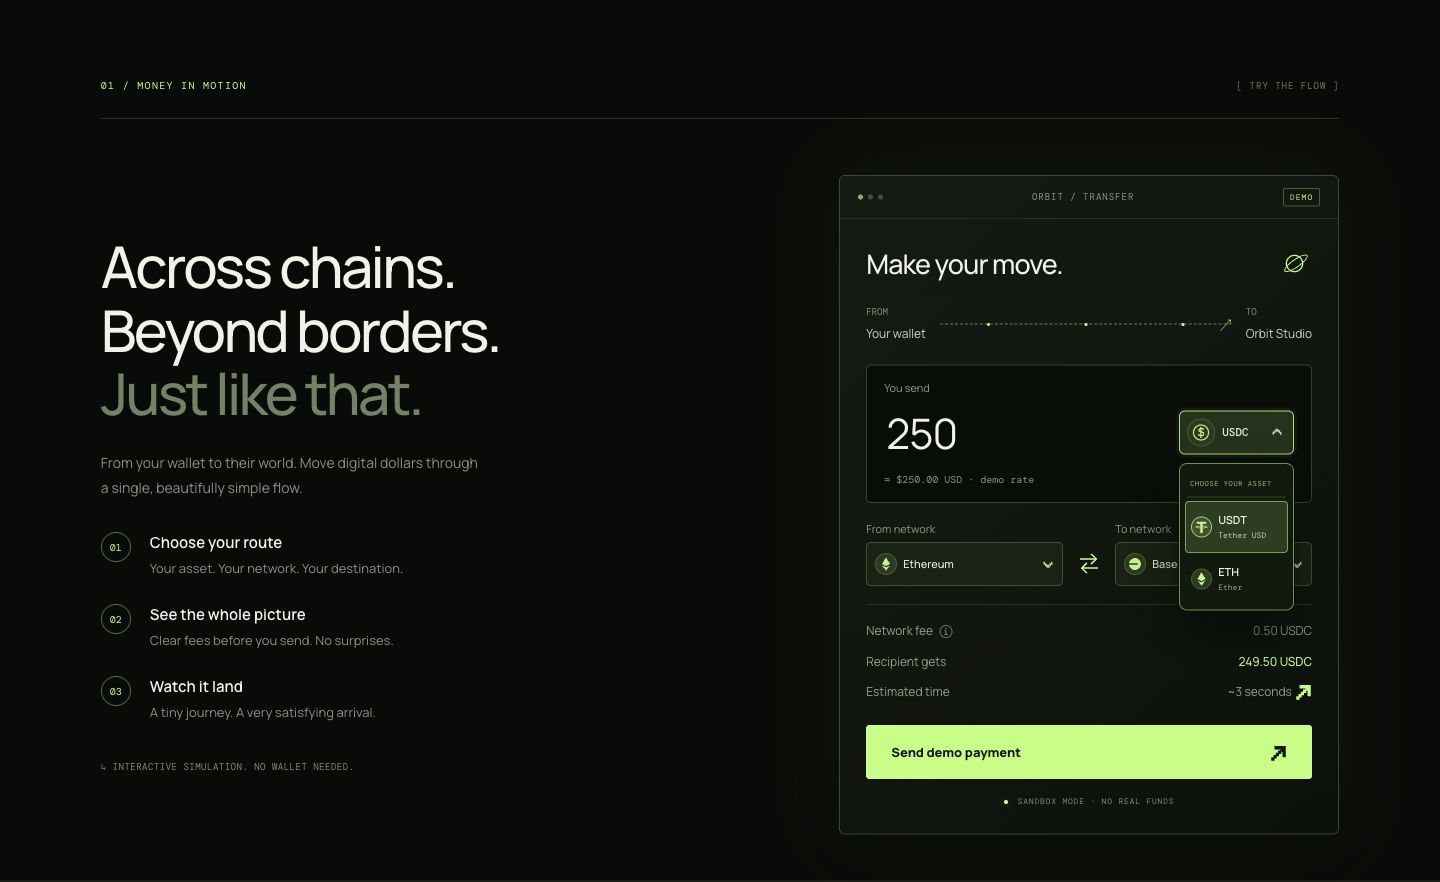
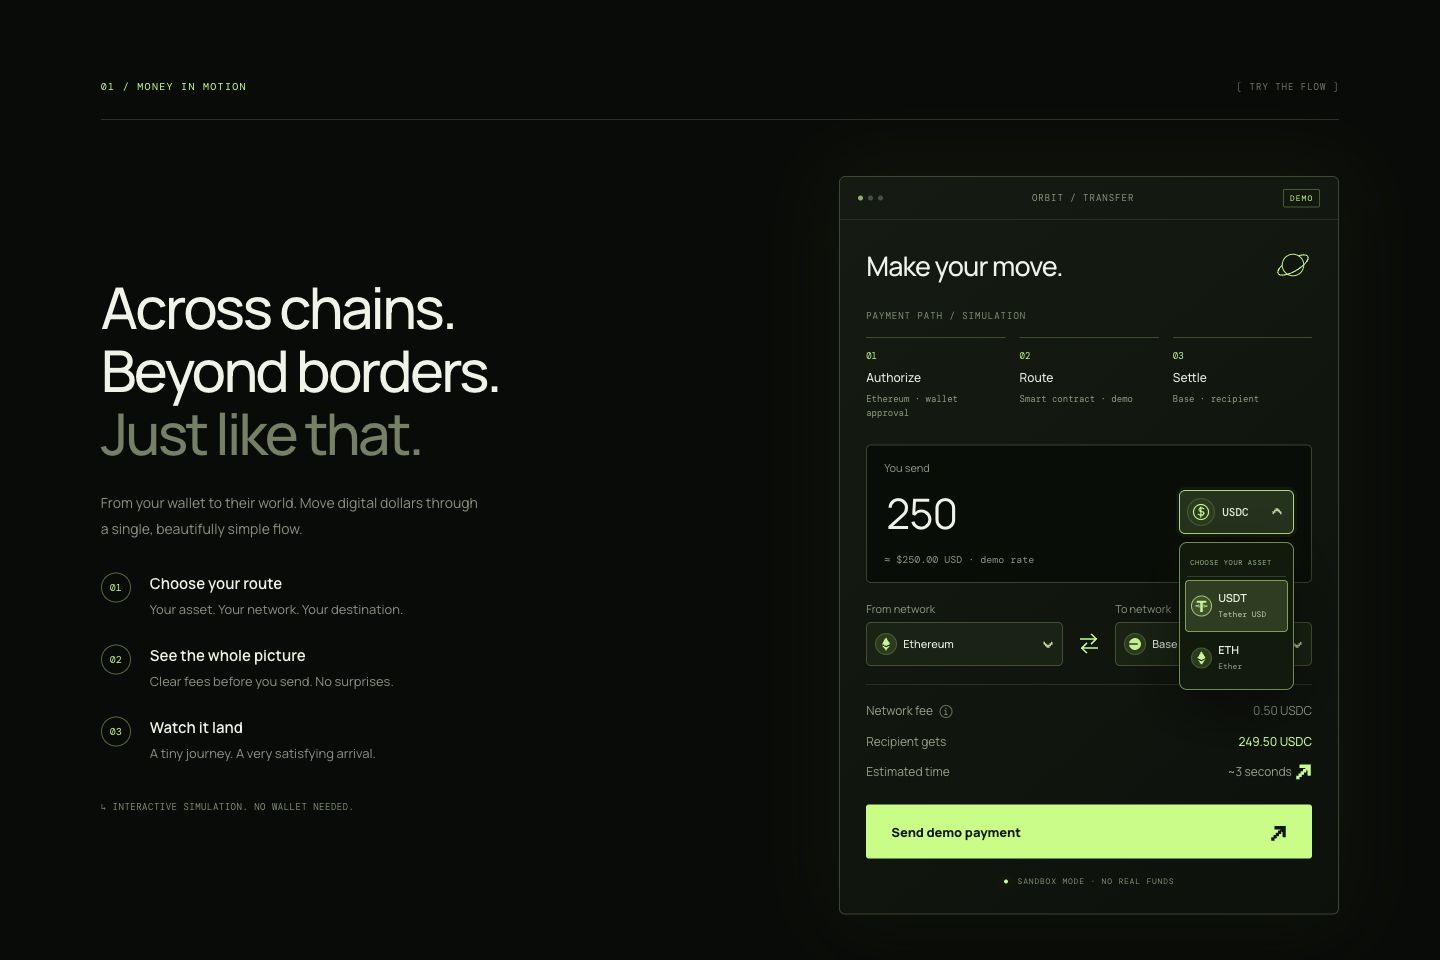
Clarify payment routes and refine orbital artwork and chronological trail fade

diff --git a/dist/index.html b/dist/index.html
@@ -23,7 +23,7 @@
 <section id="product" class="section payment-section">
   <div class="section-heading"><span class="eyebrow">01 / MONEY IN MOTION</span><span class="section-code mono">[ TRY THE FLOW ]</span></div>
   <div class="payment-layout"><div class="payment-copy reveal"><h2>Across chains.<br>Beyond borders.<br><span class="muted-heading">Just like that.</span></h2><p>From your wallet to their world. Move digital dollars through a single, beautifully simple flow.</p><div class="feature-line"><span>01</span><div><h3>Choose your route</h3><p>Your asset. Your network. Your destination.</p></div></div><div class="feature-line"><span>02</span><div><h3>See the whole picture</h3><p>Clear fees before you send. No surprises.</p></div></div><div class="feature-line"><span>03</span><div><h3>Watch it land</h3><p>A tiny journey. A very satisfying arrival.</p></div></div><span class="demo-caption mono">↳ INTERACTIVE SIMULATION. NO WALLET NEEDED.</span></div>
-  <div class="payment-terminal reveal"><div class="terminal-top"><span><i></i><i></i><i></i></span><span>ORBIT / TRANSFER</span><span class="demo-badge">DEMO</span></div><form id="payment-form" novalidate><div class="payment-title"><h3>Make your move.</h3><span class="orbit-mark small-mark"></span></div><div class="transfer-route"><span>FROM <b>Your wallet</b></span><span class="route-line"><i></i><i></i><i></i><b>↗</b></span><span>TO <b>Orbit Studio</b></span></div><div class="amount-box"><label for="amount">You send</label><div class="amount-input"><input id="amount" name="amount" type="number" min="0.01" max="1000000" step="0.01" value="250" inputmode="decimal" aria-describedby="payment-error"><label class="sr-only" for="asset">Asset</label><select id="asset" name="asset"><option>USDC</option><option>USDT</option><option>ETH</option></select></div><span id="amount-usd" class="mono muted">≈ $250.00 USD · demo rate</span></div><div class="network-fields"><div><label for="from-network">From network</label><select id="from-network"><option>Ethereum</option><option>Base</option><option>Solana</option><option>Polygon</option></select></div><button class="network-swap" id="swap-networks" type="button" aria-label="Swap networks" title="Swap networks"><svg viewBox="0 0 24 24" aria-hidden="true" focusable="false"><path d="M3 7h17m-5-5 5 5-5 5M21 17H4m5-5-5 5 5 5"/></svg></button><div><label for="to-network">To network</label><select id="to-network"><option>Base</option><option>Ethereum</option><option>Solana</option><option>Polygon</option></select></div></div><div class="payment-summary"><div><span>Network fee <span class="info-dot" title="Illustrative fee: 0.1% plus a network-specific demo fee">i</span></span><span id="payment-fee">0.50 USDC</span></div><div><span>Recipient gets</span><strong id="payment-receives">249.50 USDC</strong></div><div><span>Estimated time</span><span>~3 seconds <span class="lime">↗</span></span></div></div><p id="payment-error" class="form-error" role="alert"></p><button id="send-payment" class="button full" type="submit">Send demo payment <span>↗</span></button><div id="payment-status" class="payment-status mono" role="status" aria-live="polite"><span class="status-dot"></span> SANDBOX MODE · NO REAL FUNDS</div></form><div id="receipt" class="receipt" hidden></div></div></div>
+  <div class="payment-terminal reveal"><div class="terminal-top"><span><i></i><i></i><i></i></span><span>ORBIT / TRANSFER</span><span class="demo-badge">DEMO</span></div><form id="payment-form" novalidate><div class="payment-title"><h3>Make your move.</h3><svg class="payment-planet" viewBox="0 0 60 60" aria-hidden="true"><g transform="rotate(-30 30 30)"><ellipse cx="30" cy="30" rx="27" ry="10" fill="none" stroke="currentColor" stroke-width="1.8"/><circle cx="30" cy="30" r="17" fill="#10150f" stroke="currentColor" stroke-width="1.5"/><path d="M3 30a27 10 0 0 0 54 0" fill="none" stroke="currentColor" stroke-width="1.8"/></g></svg></div><div class="transfer-route" aria-label="Demo payment process"><span class="route-caption mono">PAYMENT PATH / SIMULATION</span><ol class="route-steps"><li><span class="route-index">01</span><strong>Authorize</strong><small data-route-from>Ethereum · wallet approval</small></li><li><span class="route-index">02</span><strong>Route</strong><small>Smart contract · demo</small></li><li><span class="route-index">03</span><strong>Settle</strong><small data-route-to>Base · recipient</small></li></ol></div><div class="amount-box"><label for="amount">You send</label><div class="amount-input"><input id="amount" name="amount" type="number" min="0.01" max="1000000" step="0.01" value="250" inputmode="decimal" aria-describedby="payment-error"><label class="sr-only" for="asset">Asset</label><select id="asset" name="asset"><option>USDC</option><option>USDT</option><option>ETH</option></select></div><span id="amount-usd" class="mono muted">≈ $250.00 USD · demo rate</span></div><div class="network-fields"><div><label for="from-network">From network</label><select id="from-network"><option>Ethereum</option><option>Base</option><option>Solana</option><option>Polygon</option></select></div><button class="network-swap" id="swap-networks" type="button" aria-label="Swap networks" title="Swap networks"><svg viewBox="0 0 24 24" aria-hidden="true" focusable="false"><path d="M3 7h17m-5-5 5 5-5 5M21 17H4m5-5-5 5 5 5"/></svg></button><div><label for="to-network">To network</label><select id="to-network"><option>Base</option><option>Ethereum</option><option>Solana</option><option>Polygon</option></select></div></div><div class="payment-summary"><div><span>Network fee <span class="info-dot" title="Illustrative fee: 0.1% plus a network-specific demo fee">i</span></span><span id="payment-fee">0.50 USDC</span></div><div><span>Recipient gets</span><strong id="payment-receives">249.50 USDC</strong></div><div><span>Estimated time</span><span>~3 seconds <span class="lime">↗</span></span></div></div><p id="payment-error" class="form-error" role="alert"></p><button id="send-payment" class="button full" type="submit">Send demo payment <span>↗</span></button><div id="payment-status" class="payment-status mono" role="status" aria-live="polite"><span class="status-dot"></span> SANDBOX MODE · NO REAL FUNDS</div></form><div id="receipt" class="receipt" hidden></div></div></div>
 </section>
 <section id="ecosystem" class="section ecosystem-section"><div class="section-heading"><span class="eyebrow">02 / YOUR MONEY, CONNECTED</span><span class="section-code mono">[ HOLD · PAY · STAKE ]</span></div><div class="ecosystem-heading reveal"><h2>Three essentials.<br><span class="muted-heading">One personal orbit.</span></h2><p>A home for your crypto.<br>A way to move it. A way to put it to work.</p></div><div id="ecosystem-root"></div></section>
 <section id="earn" class="section earn-section"><div class="section-heading"><span class="eyebrow">03 / MAKE HOLDING COUNT</span><span class="section-code mono">[ EXPLORE STAKING ]</span></div><div id="earn-root"></div></section>

diff --git a/dist/main.js b/dist/main.js
@@ -6,7 +6,7 @@ import { initNetworkTicker } from './networks.js';
 import { initFinalEmblem } from './final-emblem.js';
 import { initHoverEffects } from './hover-effects.js';
 import { initPlanet } from './planet.js';
-import { calculatePayment, RATES } from './payment.js';
+import { calculatePayment, RATES, reconcileNetworks } from './payment.js';
 
 const $ = (s) => document.querySelector(s);
 const reducedMotion = window.matchMedia('(prefers-reduced-motion: reduce)').matches;
@@ -29,6 +29,21 @@ const form = $('#payment-form');
 const fields = ['#amount','#asset','#from-network','#to-network'].map($);
 const money = value => new Intl.NumberFormat('en-US',{style:'currency',currency:'USD',maximumFractionDigits:2}).format(value);
 let currentPayment;
+let routeState = { from: fields[2].value, to: fields[3].value };
+let syncingRoute = false;
+function syncRoute(changed) {
+  if (syncingRoute) return;
+  syncingRoute = true;
+  const next = reconcileNetworks(routeState, {from: fields[2].value, to: fields[3].value}, changed);
+  for (const [index, key] of [[2, 'from'], [3, 'to']]) {
+    if (fields[index].value !== next[key]) {
+      fields[index].value = next[key];
+      fields[index].dispatchEvent(new Event('change', {bubbles:true}));
+    }
+  }
+  routeState = next;
+  syncingRoute = false;
+}
 function updatePayment() {
   const [amount,asset,from,to] = fields.map(f=>f.value);
   currentPayment = calculatePayment(amount,asset,from,to);
@@ -36,9 +51,19 @@ function updatePayment() {
   $('#payment-error').textContent = currentPayment.error || '';
   $('#payment-fee').textContent = currentPayment.error ? '—' : `${currentPayment.fee.toFixed(currentPayment.precision)} ${asset}`;
   $('#payment-receives').textContent = currentPayment.error ? '—' : `${currentPayment.receives.toFixed(currentPayment.precision)} ${asset}`;
+  document.querySelector('[data-route-from]').textContent = `${from} · wallet approval`;
+  document.querySelector('[data-route-to]').textContent = `${to} · recipient`;
   return !currentPayment.error;
 }
-fields.forEach(f=>f.addEventListener('input',updatePayment)); updatePayment();
+fields.forEach((field, index) => {
+  const update = () => {
+    if (index >= 2) syncRoute(index === 2 ? 'from' : 'to');
+    updatePayment();
+  };
+  field.addEventListener('input', update);
+  if (index >= 2) field.addEventListener('change', update);
+});
+updatePayment();
 let sending = false;
 const swapNetworks = $('#swap-networks');
 swapNetworks.addEventListener('click', () => {
@@ -59,7 +84,7 @@ form.addEventListener('submit',async event => {
   const button=$('#send-payment'); button.disabled=true; fields.forEach(f=>f.disabled=true);
   const phases=['Finding your orbit…','Routing through the network…','Confirming arrival…'];
   try {
-    for(const phase of phases) { button.textContent=phase; $('#payment-status').textContent=phase.toUpperCase(); $('.payment-terminal').classList.add('processing'); await new Promise(resolve=>setTimeout(resolve,reducedMotion?250:850)); }
+    for(const [index, phase] of phases.entries()) { $('.transfer-route').dataset.phase = String(index); button.textContent=phase; $('#payment-status').textContent=phase.toUpperCase(); $('.payment-terminal').classList.add('processing'); await new Promise(resolve=>setTimeout(resolve,reducedMotion?250:850)); }
     const receiptId = `ORB-DEMO-${crypto.randomUUID().slice(0,8).toUpperCase()}`;
     const stamp = new Date().toISOString();
     const receiptText = `ORBIT PAY — DEMO RECEIPT\n${receiptId}\nTime: ${stamp}\nFrom: ${payment.from}\nTo: ${payment.to}\nSent: ${payment.amount} ${payment.asset}\nFee: ${payment.fee.toFixed(payment.precision)} ${payment.asset}\nReceived: ${payment.receives.toFixed(payment.precision)} ${payment.asset}\nSimulated payment. No real funds moved.`;
@@ -68,7 +93,7 @@ form.addEventListener('submit',async event => {
     form.hidden=true;receipt.hidden=false;receipt.setAttribute('tabindex','-1');receipt.focus({preventScroll:true});
     $('#another-payment').addEventListener('click',()=>{receipt.hidden=true;form.hidden=false;$('#amount').focus({preventScroll:true});});
     $('#download-receipt').addEventListener('click',()=>{const url=URL.createObjectURL(new Blob([receiptText],{type:'text/plain'}));const a=document.createElement('a');a.href=url;a.download=`${receiptId}.txt`;a.click();setTimeout(()=>URL.revokeObjectURL(url),1000);toast('Demo receipt saved.');});
-  } finally {sending=false;swapNetworks.disabled=false;button.disabled=false;fields.forEach(f=>f.disabled=false);button.innerHTML='Send demo payment <span>↗</span>';$('#payment-status').innerHTML='<span class="status-dot"></span> SANDBOX MODE · NO REAL FUNDS';$('.payment-terminal').classList.remove('processing');}
+  } finally { $('.transfer-route').removeAttribute('data-phase'); sending=false;swapNetworks.disabled=false;button.disabled=false;fields.forEach(f=>f.disabled=false);button.innerHTML='Send demo payment <span>↗</span>';$('#payment-status').innerHTML='<span class="status-dot"></span> SANDBOX MODE · NO REAL FUNDS';$('.payment-terminal').classList.remove('processing');}
 });
 
 initEcosystem($('#ecosystem-root'));

diff --git a/dist/refinements.css b/dist/refinements.css
@@ -25,3 +25,18 @@
 @media(max-width:760px){.hero-copy>p{font-size:13px}.hero-actions .text-link{font-size:11px}.hero-note{font-size:7px}.hero-bottom,.hero-bottom a{font-size:7px}.hero-bottom>span .muted{display:none}.section-heading .eyebrow{font-size:8px;letter-spacing:.7px}.section-code{font-size:7px;letter-spacing:0}.payment-copy>p{font-size:13px}.feature-line p{font-size:12px}.feature-line h3{font-size:14px}.payment-title h3{font-size:26px}#payment-form{padding:23px}.amount-input input{font-size:37px}.payment-status{font-size:7px}.ecosystem-heading p{font-size:13px}.ecosystem-heading h2{font-size:39px}.business-card{padding:27px 24px 42px;min-height:320px}.business-card+.business-card{border-top:1px solid var(--line)}.business-card>.eyebrow{font-size:9px}.business-card p{font-size:13px;max-width:85%}.developer-layout{grid-template-columns:minmax(0,1fr);gap:32px}.dev-tags{max-width:none}.dev-tags button{min-height:54px;font-size:12px}.code-toolbar{padding:0 13px;min-height:65px}.code-toolbar>div{gap:18px}.code-toolbar button{font-size:11px}.code-toolbar #copy-code{min-width:82px;min-height:40px;font-size:11px}.code-terminal pre{font-size:11px}.code-output{font-size:10px}.final-section{padding:44px 7% 38px}.final-lockup{grid-template-columns:minmax(0,1fr) clamp(44px,12vw,85px);gap:20px;margin:28px 0 30px}.final-section .final-lockup h2{font-size:clamp(48px,10.5vw,78px)}.final-section .final-emblem{font-size:initial;margin-bottom:26%}.final-caption{font-size:8px}.final-section>.eyebrow{font-size:9px}.footer-top{align-items:center;gap:22px}.footer-links{gap:20px;flex-wrap:wrap}.footer-links>a,.footer-links>button{font-size:9px}.footer-bottom{font-size:7px}}
 @media(max-width:380px){.code-toolbar{gap:8px;padding:0 10px}.code-toolbar>div{gap:12px}.code-toolbar button{font-size:10px}.code-toolbar #copy-code{min-width:68px;font-size:10px}.code-terminal pre{font-size:10px}.final-section .final-lockup h2{font-size:45px}.final-lockup{gap:12px;grid-template-columns:minmax(0,1fr) 40px}#payment-form{padding:18px}.amount-input{gap:8px}.hero-actions{gap:17px}.hero-actions .text-link{font-size:10px}.hero-copy>p{font-size:12px}}
 @media(prefers-reduced-motion:reduce){.button:before,.pixel-arrow,.final-emblem,.dev-tags button{transition:none!important}}
+
+/* A readable transaction path replaces the decorative dotted connector. */
+.transfer-route{display:block;margin:26px 0 24px}
+.route-caption{display:block;color:#81946e;font-size:8px;letter-spacing:1px;margin-bottom:15px}
+.route-steps{display:grid;grid-template-columns:repeat(3,minmax(0,1fr));gap:14px;list-style:none;padding:0;margin:0}
+.route-steps li{position:relative;border-top:1px solid #3a4d2d;padding-top:12px;min-width:0}
+.route-index{display:block;font:9px var(--mono);color:var(--lime);margin-bottom:7px}
+.transfer-route .route-steps strong{display:block;font:500 12px var(--sans);color:#e3edd9}
+.route-steps small{display:block;font:9px/1.6 var(--mono);color:#8c9d7d;margin-top:6px;overflow-wrap:break-word}
+.transfer-route[data-phase="0"] li:nth-child(1),.transfer-route[data-phase="1"] li:nth-child(2),.transfer-route[data-phase="2"] li:nth-child(3){border-top-color:var(--lime);background:linear-gradient(#bcff750c,transparent)}
+.payment-planet{width:38px;height:38px;color:var(--lime);flex:none}
+.final-lockup{grid-template-columns:minmax(0,1fr) clamp(180px,30vw,420px);gap:clamp(20px,4vw,60px);max-width:none}
+.final-section .final-emblem{align-self:center;margin:0;transform:none}
+@media(max-width:700px){.final-lockup{grid-template-columns:minmax(0,1fr) clamp(140px,32vw,230px);gap:12px}.final-section .final-lockup h2{font-size:clamp(45px,8.5vw,80px)}}
+@media(max-width:440px){.final-lockup{grid-template-columns:1fr}.final-section .final-emblem{width:min(68vw,260px);justify-self:end;margin-top:-15px}.final-section .final-lockup h2{font-size:clamp(54px,15vw,70px)}.route-steps{gap:8px}.transfer-route .route-steps strong{font-size:11px}.route-steps small{font-size:8px}}

diff --git a/dist/cursor-trail.js b/dist/cursor-trail.js
@@ -10,6 +10,10 @@ const BURST_TARGETS = '.eco-cta,.earn-submit,#send-payment,.hero-actions .button
 const SVG_PAINT = 'svg path,svg circle,svg ellipse,svg rect,svg line,svg polyline,svg polygon,svg text,svg image,svg use';
 const GLYPHS = '0123456789abcdef';
 const LIFE = 2650;
+export function trailOpacity(ageMs, life = LIFE) {
+  const fade = Math.max(0, Math.min(1, (ageMs - life * .45) / (life * .55)));
+  return 1 - fade * fade * (3 - 2 * fade);
+}
 const CLEARANCE = 18;
 const GRID = 96;
 const nextSpacing = () => 2.2 + Math.random() * 2.8;
@@ -404,7 +408,7 @@ export function initCursorTrail() {
       if (x < -20 || x > width + 20 || y < -20 || y > height + 20) continue;
       const clearance = proximity(x, y, p.size);
       if (!clearance) continue;
-      target.globalAlpha = p.alpha * Math.pow(1 - age, p.burst ? 1.7 : 1.35) * clearance;
+      target.globalAlpha = p.alpha * (p.burst ? Math.pow(1 - age, 1.7) : trailOpacity(now - p.born, p.life)) * clearance;
       const row = lightRects.some(rect => x >= rect.left && x <= rect.right && y >= rect.top && y <= rect.bottom) ? 1 : 0;
       const side = atlasCell / atlasScale * p.size / 9;
       target.save();
@@ -589,9 +593,10 @@ export function initCursorTrail() {
   document.addEventListener('pointerout', pointerOut, { passive: true });
   window.addEventListener('resize', resize, { passive: true });
   window.addEventListener('scroll', resetPointer, { passive: true, capture: true });
-  window.addEventListener('blur', clear);
+  window.addEventListener('blur', resetPointer);
   document.documentElement.addEventListener('pointerleave', resetPointer);
-  document.addEventListener('visibilitychange', clear);
+  const onVisibility = () => { resetPointer(); if (document.hidden) { cancelAnimationFrame(frame); frame = 0; } else start(); };
+  document.addEventListener('visibilitychange', onVisibility);
   finePointer.addEventListener('change', resize);
   reducedMotion.addEventListener('change', resize);
   const fontsReady = () => { if (!destroyed) { paintGlyphAtlas(); invalidate(true); } };
@@ -611,9 +616,9 @@ export function initCursorTrail() {
     document.removeEventListener('pointerout', pointerOut);
     window.removeEventListener('resize', resize);
     window.removeEventListener('scroll', resetPointer, true);
-    window.removeEventListener('blur', clear);
+    window.removeEventListener('blur', resetPointer);
     document.documentElement.removeEventListener('pointerleave', resetPointer);
-    document.removeEventListener('visibilitychange', clear);
+    document.removeEventListener('visibilitychange', onVisibility);
     finePointer.removeEventListener('change', resize);
     reducedMotion.removeEventListener('change', resize);
     document.fonts?.removeEventListener('loadingdone', fontsReady);

diff --git a/dist/planet.js b/dist/planet.js
@@ -174,14 +174,24 @@ export function initPlanet(canvas) {
   function drawOrbits(front) {
     for (const orbit of orbits) {
       const path = new Path2D();
+      let previous = null;
       let connected = false;
       for (let step = 0; step <= 240; step++) {
-        const point = orbitPoint(orbit, (step / 240) * TAU);
-        if ((point.z >= 0) !== front) { connected = false; continue; }
-        const projected = project(point);
-        if (connected) path.lineTo(projected.x, projected.y);
-        else path.moveTo(projected.x, projected.y);
-        connected = true;
+        const point = orbitPoint(orbit, step / 240 * TAU);
+        if (front && previous && (previous.z >= 0) !== (point.z >= 0)) {
+          const t = previous.z / (previous.z - point.z);
+          const crossing = project({x: previous.x + (point.x - previous.x) * t, y: previous.y + (point.y - previous.y) * t, z: 0});
+          if (connected) path.lineTo(crossing.x, crossing.y);
+          else path.moveTo(crossing.x, crossing.y);
+          connected = point.z >= 0;
+        }
+        if (!front || point.z >= 0) {
+          const projected = project(point);
+          if (connected) path.lineTo(projected.x, projected.y);
+          else path.moveTo(projected.x, projected.y);
+          connected = true;
+        }
+        previous = point;
       }
       ctx.strokeStyle = `rgba(198,255,112,${orbit.alpha * (front ? 1 : 0.47)})`;
       ctx.lineWidth = front ? 0.8 : 0.65;

diff --git a/dist/payment.js b/dist/payment.js
@@ -13,3 +13,9 @@ export function calculatePayment(rawAmount, asset, from, to) {
   if (receives <= 0) return { error: 'This amount is too small to cover the network fee.' };
   return { amount, asset, from, to, fee, receives, precision, usd: amount * RATES[asset] };
 }
+
+/** Keep a cross-network route distinct when one endpoint replaces the other. */
+export function reconcileNetworks(previous, next, changed) {
+  if (next.from !== next.to) return next;
+  return changed === 'from' ? { from: next.from, to: previous.from } : { from: previous.to, to: next.to };
+}

diff --git a/dist/final-emblem.js b/dist/final-emblem.js
@@ -115,7 +115,7 @@ export function initFinalEmblem(root) {
       ${globeGrid()}
     </g>
     <g transform="rotate(-35 70 70)" clip-path="url(#${id}-front)">
-      <ellipse cx="70" cy="70" rx="61" ry="23" fill="none" stroke="var(--lime, #bcff75)" stroke-width="10"/>
+
       <g fill="currentColor" font-family="ui-monospace, SFMono-Regular, Consolas, monospace">${rows}</g>
     </g>
     <g transform="rotate(-35 70 70)">

diff --git a/dist/ecosystem.js b/dist/ecosystem.js
@@ -150,7 +150,7 @@ function instrument(id) {
         ${continentDots()}
         <circle cx="345" cy="277" r="63" fill="url(#${id}-limb)"/>
       </g>
-      <path d="M286 258a63 63 0 0 1 72-43" stroke="#c5e6a1" stroke-opacity=".38" stroke-width=".9" stroke-linecap="round"/>
+
       ${ring.front}
     </g>
     <g class="eco-svg-labels" fill="#6e825e" font-size="9" letter-spacing="1.6">

diff --git a/README.md b/README.md
@@ -256,3 +256,9 @@ npm test
 Размещайте **содержимое `dist/`** на статическом хостинге с HTTPS, сохраняя структуру каталогов. Команда сборки не нужна; корневой документ — `index.html`. Относительные пути позволяют размещать файлы как в корне домена, так и в подкаталоге.
 
 `serve.mjs` предназначен для локального предпросмотра и слушает только `127.0.0.1`. Для публичного размещения используется инфраструктура выбранного хостинга. Файлы `docs/images/` нужны для страницы репозитория и не входят в обязательные ресурсы самого сайта.
+
+### Уточнение платежного сценария и движения
+
+Одинаковые сети автоматически меняются местами: выбор Base в исходном маршруте Ethereum → Base даёт Base → Ethereum. Над формой показан путь Authorize → Route → Settle с текущими сетями; во время демо-платежа подсвечивается соответствующий этап. Финальная планета увеличена, на узких экранах она переносится под заголовок.
+
+Шлейф сохраняет независимое время рождения каждого символа: начальные 45% его жизни сохраняется яркость, затем начинается плавное затухание до полного исчезновения на 2,65 секунде. Потеря фокуса окна не удаляет весь след; скрытие вкладки приостанавливает отрисовку, а после возвращения учитывается фактически прошедшее время. Орбиты планеты рисуются непрерывно с перекрытием задних частей сферой.
